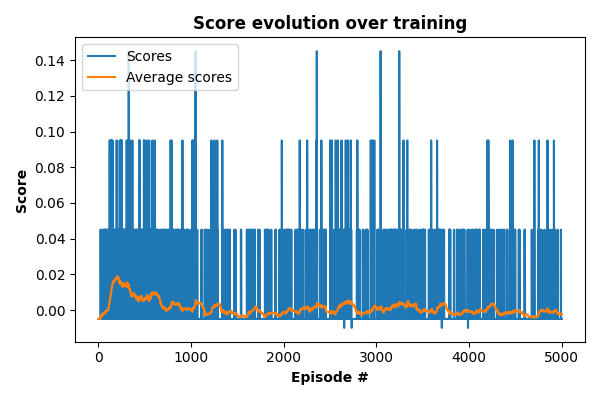
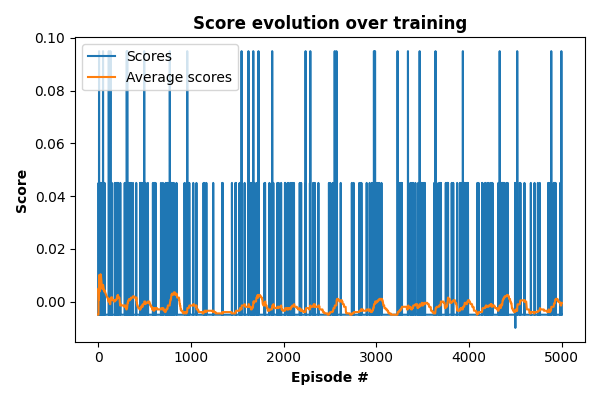
Separate agents added.

diff --git a/agent.py b/agent.py
@@ -15,7 +15,7 @@ CRITIC_LR = 1e-3
 CRITIC_WD = 0
 DISCOUNT_FACTOR = 0.95
 BUFFER_SIZE = int(1e6)
-MINIBATCH_SIZE = 32
+MINIBATCH_SIZE = 64
 UPDATE_EVERY = 1
 TAU = 1e-2
 # # # HYPERPARAMETERS # # #
@@ -45,37 +45,36 @@ class MultiAgentDeepDeterministicPolicyGradient:
         random.seed(seed)
 
         # Initialize networks and optimizers
-        # self.actors_local = [
-        #     Actor(self.observation_size, self.action_size, seed=seed).to(DEVICE) for seed in range(self.num_agents)
-        # ]
-        # self.actors_target = [
-        #     Actor(self.observation_size, self.action_size, seed=seed).to(DEVICE) for seed in range(self.num_agents)
-        # ]
+        self.actors_local = [
+            Actor(self.observation_size, self.action_size, seed=seed).to(DEVICE)
+            for seed in range(self.num_agents * 0, self.num_agents * 1)
+        ]
+        self.actors_target = [
+            Actor(self.observation_size, self.action_size, seed=seed).to(DEVICE)
+            for seed in range(self.num_agents * 1, self.num_agents * 2)
+        ]
+        self.actor_optims = [Adam(actor.parameters(), lr=ACTOR_LR) for actor in self.actors_local]
 
-        self.actor_local = Actor(self.observation_size, self.action_size, seed=seed).to(DEVICE)
-        self.actor_target = Actor(self.observation_size, self.action_size, seed=seed).to(DEVICE)
-        hard_update(self.actor_local, self.actor_target)
-        self.actor_optim = Adam(self.actor_local.parameters(), lr=ACTOR_LR)
+        self.critics_local = [
+            Critic(self.num_agents * self.observation_size, self.num_agents * self.action_size, seed=seed).to(DEVICE)
+            for seed in range(self.num_agents * 2, self.num_agents * 3)
+        ]
+        self.critics_target = [
+            Critic(self.num_agents * self.observation_size, self.num_agents * self.action_size, seed=seed).to(DEVICE)
+            for seed in range(self.num_agents * 3, self.num_agents * 4)
+        ]
+        self.critic_optims = [
+            Adam(critic.parameters(), lr=ACTOR_LR, weight_decay=CRITIC_WD) for critic in self.critics_local
+        ]
 
-        self.critic_local = Critic(self.num_agents * self.observation_size,
-                                   self.num_agents * self.action_size,
-                                   seed=seed).to(DEVICE)
-        self.critic_target = Critic(self.num_agents * self.observation_size,
-                                    self.num_agents * self.action_size,
-                                    seed=seed).to(DEVICE)
-        hard_update(self.critic_local, self.critic_target)
-        self.critic_optim = Adam(self.critic_local.parameters(), lr=ACTOR_LR, weight_decay=CRITIC_WD)
-
-        self.noise = OrnsteinUhlenbeckActionNoise(action_size, seed)
+        self.noise = OrnsteinUhlenbeckActionNoise(self.num_agents * self.action_size, seed)
 
         # Initialize replay memory
         self.memory = ReplayBuffer(BUFFER_SIZE, MINIBATCH_SIZE, seed)
 
         self.t_step = 0
-        # self.eps_t = 0
-        # self.no_decay_steps = 0
         self.eps = 1
-        self.eps_decay = 0.995
+        self.eps_decay = 0.9995
         self.eps_min = 0.01
 
     def step(self, state, action: int, reward: float, next_state, done):
@@ -109,17 +108,17 @@ class MultiAgentDeepDeterministicPolicyGradient:
         :param state: (array_like) current state;
         :param explore: (bool) exploration or exploitation.
         """
-        # self.eps_t += 1
 
         state = torch.from_numpy(state).float().to(DEVICE)
-        self.actor_local.eval()
-        with torch.no_grad():
-            actions = self.actor_local(state).cpu().data.numpy()
-        self.actor_local.train()
+        actions = np.zeros((self.num_agents, self.action_size))
+        for i, actor in enumerate(self.actors_local):
+            actor.eval()
+            with torch.no_grad():
+                actions[i, :] = actor(state[i].unsqueeze(0)).cpu().data.numpy()
+            actor.train()
 
         if explore:
-            for action in actions:
-                action += self.noise(self.eps)
+            actions += self.noise(self.eps).reshape((self.num_agents, self.action_size))
             self.eps = max(self.eps_min, self.eps * self.eps_decay)
 
         return np.clip(actions, self.action_low, self.action_high)
@@ -132,72 +131,54 @@ class MultiAgentDeepDeterministicPolicyGradient:
         """
 
         states, actions, rewards, next_states, dones = experiences
-        states_full = states.view(MINIBATCH_SIZE, self.num_agents * self.observation_size)
-        next_states_full = next_states.view(MINIBATCH_SIZE, self.num_agents * self.observation_size)
+        states_full = states.view(MINIBATCH_SIZE, self.num_agents * self.observation_size).to(DEVICE)
+        next_states_full = next_states.view(MINIBATCH_SIZE, self.num_agents * self.observation_size).to(DEVICE)
 
         # Update Critic
-        next_actions = self.actor_target(next_states)
-        # next_actions = torch.reshape(next_actions, (MINIBATCH_SIZE, self.num_agents * self.action_size))
+        next_actions = torch.zeros(MINIBATCH_SIZE * self.num_agents, self.action_size).to(DEVICE)
+        for i, actor in enumerate(self.actors_target):
+            next_actions[i::self.num_agents, :] = actor(next_states[i::self.num_agents])
 
-        Q_targets_next = self.critic_target(
-            next_states_full,
-            next_actions.view(MINIBATCH_SIZE, self.action_size * self.num_agents)
-        )
+        Q_targets_next = torch.zeros(MINIBATCH_SIZE, self.num_agents).to(DEVICE)
+        for i, critic in enumerate(self.critics_target):
+            Q_targets_next[:, i] = critic(
+                next_states_full,
+                next_actions.view(MINIBATCH_SIZE, self.action_size * self.num_agents)
+            ).view(MINIBATCH_SIZE)
 
-        # Q_targets_next = self.critic_target(
-        #     next_states_full.repeat(1, 2).view(MINIBATCH_SIZE * self.num_agents, next_states_full.shape[1]),
-        #     next_actions
-        # )
+        Q_targets = rewards + (DISCOUNT_FACTOR * Q_targets_next * (1 - dones))
 
-        # Q_targets_next = self.critic_target(
-        #     torch.reshape(next_states, (MINIBATCH_SIZE, self.num_agents * self.observation_size)), next_actions
-        # )
+        Q_expected = torch.zeros(MINIBATCH_SIZE, self.num_agents).to(DEVICE)
+        for i, critic in enumerate(self.critics_local):
+            Q_expected[:, i] = critic(
+                states_full,
+                actions.view(MINIBATCH_SIZE, self.action_size * self.num_agents)
+            ).view(MINIBATCH_SIZE)
 
-        Q_targets = rewards.mean(-1).view(MINIBATCH_SIZE, 1) \
-                    + (DISCOUNT_FACTOR * Q_targets_next * (1 - dones.byte().any(-1).view(MINIBATCH_SIZE, 1)))
-
-        # Q_targets = rewards.view(MINIBATCH_SIZE * self.num_agents, 1) \
-        #             + (DISCOUNT_FACTOR * Q_targets_next
-        #             * (1 - dones.view(MINIBATCH_SIZE * self.num_agents, 1)))
-
-        # Q_expected = self.critic_local(
-        #     states_full.repeat(1, 2).view(MINIBATCH_SIZE * self.num_agents, states_full.shape[1]), actions
-        # )
-
-        Q_expected = self.critic_local(
-            states_full,
-            actions.view(MINIBATCH_SIZE, self.action_size * self.num_agents)
-        )
-
-        critic_loss = F.mse_loss(Q_expected, Q_targets)
-        self.critic_optim.zero_grad()
-        critic_loss.backward()
-        self.critic_optim.step()
+        for i, optim in enumerate(self.critic_optims):
+            critic_loss = F.mse_loss(Q_expected[:, i].detach(), Q_targets[:, i])
+            optim.zero_grad()
+            critic_loss.backward(retain_graph=True if i == 0 else None)
+            optim.step()
 
         # Update Actor
+        action_predictions = torch.zeros(MINIBATCH_SIZE * self.num_agents, self.action_size).to(DEVICE)
+        for i, actor in enumerate(self.actors_local):
+            action_predictions[i::self.num_agents, :] = actor(states[i::self.num_agents])
 
-        action_predictions = self.actor_local(states)
-        # actor_loss = -self.critic_local(
-        #     states_full.repeat(1, 2).view(MINIBATCH_SIZE * self.num_agents, states_full.shape[1]),
-        #     action_predictions
-        # ).mean()
-
-        actor_loss = -self.critic_local(
-            states_full,
-            action_predictions.view(MINIBATCH_SIZE, self.action_size * self.num_agents)
-        ).mean()
-
-        self.actor_optim.zero_grad()
-        actor_loss.backward()
-        self.actor_optim.step()
+        for i, (optim, critic) in enumerate(zip(self.actor_optims, self.critics_local)):
+            actor_loss = -critic(
+                states_full,
+                action_predictions.view(MINIBATCH_SIZE, self.action_size * self.num_agents).detach()
+            ).mean()
+            optim.zero_grad()
+            actor_loss.backward(retain_graph=True if i == 0 else None)
+            optim.step()
 
         # Target network soft update
-        soft_update(self.critic_local, self.critic_target, TAU)
-        soft_update(self.actor_local, self.actor_target, TAU)
+        for i in range(self.num_agents):
+            soft_update(self.critics_local[i], self.critics_target[i], TAU)
+            soft_update(self.actors_local[i], self.actors_target[i], TAU)
 
     def reset(self):
         self.noise.reset()
-
-    def make_checkpoint(self):
-        torch.save(self.actor_local.state_dict(), 'checkpoint_actor.pth')
-        torch.save(self.critic_local.state_dict(), 'checkpoint_critic.pth')

diff --git a/utilities.py b/utilities.py
@@ -165,6 +165,7 @@ def train(agent, env, n_episodes=2000):
     :param n_episodes: maximum number of training episodes;
     :return: scores per episode.
     """
+
     for handler in logging.root.handlers[:]:
         logging.root.removeHandler(handler)
     logging.basicConfig(level=logging.INFO, filename='training.log', filemode='w', format='%(asctime)s - %(message)s')
@@ -176,9 +177,9 @@ def train(agent, env, n_episodes=2000):
     scores_window = deque(maxlen=100)   # last 100 scores
 
     for i_episode in range(1, n_episodes + 1):
+        agent.reset()
         env_info = env.reset(train_mode=True)[brain_name]   # reset the environment
         state = env_info.vector_observations                # get the current state
-        agent.reset()
         score = np.zeros(len(env_info.agents))              # reset score for new episode
 
         while True:
@@ -201,19 +202,21 @@ def train(agent, env, n_episodes=2000):
         print('\rEpisode {}\tAverage Score: {:.2f}'.format(i_episode, np.mean(scores_window)), end="")
 
         if i_episode % 100 == 0:
-            torch.save(agent.actor_local.state_dict(), 'checkpoint_actor.pth')
-            torch.save(agent.critic_local.state_dict(), 'checkpoint_critic.pth')
+            # torch.save(agent.actor_local.state_dict(), 'checkpoint_actor.pth')
+            # torch.save(agent.critic_local.state_dict(), 'checkpoint_critic.pth')
             print('\rEpisode {}\tAverage Score: {:.2f}'.format(i_episode, np.mean(scores_window)))
-            logging.info(f'Score average over the last 100 episodes reached {np.round(np.mean(scores_window), 5)} '
-                         f'after {i_episode} episodes.')
+            logging.info('Score average over the last 100 episodes reached {:.5f} after {:d} episodes.'
+                         .format(np.mean(scores_window), i_episode))
+
         if np.mean(scores_window) >= 0.5:
-            torch.save(agent.actor_local.state_dict(), 'final_checkpoint_actor.pth')
-            torch.save(agent.critic_local.state_dict(), 'final_checkpoint_critic.pth')
+            # torch.save(agent.actor_local.state_dict(), 'final_checkpoint_actor.pth')
+            # torch.save(agent.critic_local.state_dict(), 'final_checkpoint_critic.pth')
             print('\nEnvironment solved in {:d} episodes!\tAverage Score: {:.2f}'.format(i_episode - 100,
                                                                                          np.mean(scores_window)))
-            logging.info(f'Environment solved in {i_episode - 100} episodes '
-                         f'with average score of {np.round(np.mean(scores_window), 5)}')
+            logging.info('Environment solved in {:d} episodes with average score of {:.5f}'
+                         .format(i_episode - 100, np.mean(scores_window)))
             break
+
     return scores, avg_scores
 
 

diff --git a/main.py b/main.py
@@ -40,12 +40,11 @@ if not os.path.exists('checkpoints'):
     os.mkdir('checkpoints')
 
 # save network weights
-checkpoint = {
-    'actor': agent.actor_local.state_dict(),
-    'critic': agent.critic_local.state_dict(),
-    'actor_target': agent.actor_target.state_dict(),
-    'critic_target': agent.critic_target.state_dict()
-}
+checkpoint = dict()
+for i in range(len(env_info.agents)):
+    checkpoint[f'actor_{i}'] = agent.actors_local.state_dict()
+    checkpoint[f'critic_{i}'] = agent.critics_local.state_dict()
+
 torch.save(checkpoint, 'checkpoints/maddpg.pth')
 
 if not os.path.exists('figures'):
